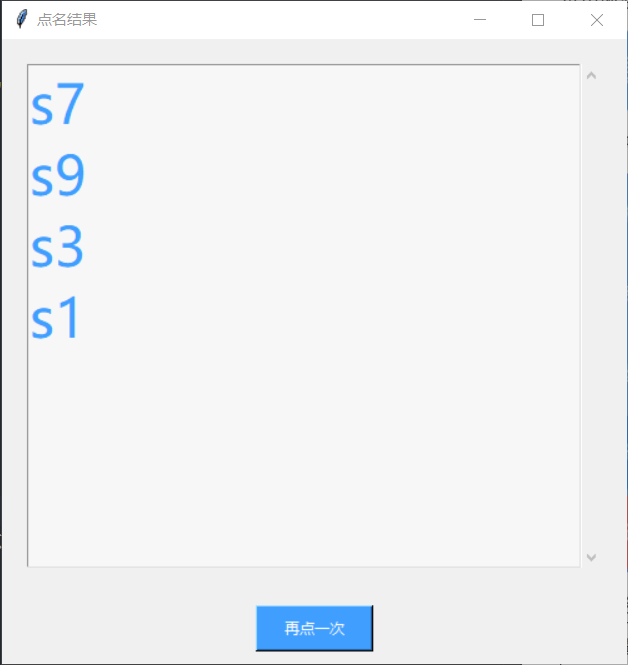
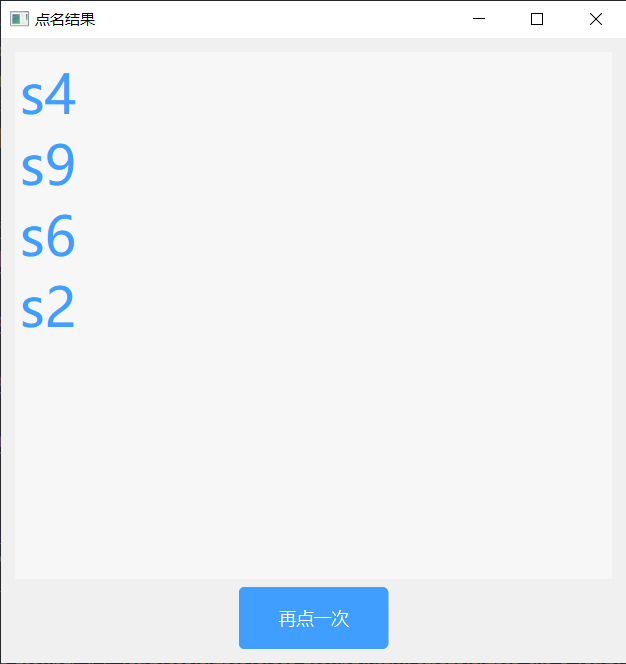
重构少量代码，修改README.md

diff --git a/tools/settings.py b/tools/settings.py
@@ -24,7 +24,7 @@ import subprocess
 import platform
 import copy
 from logger import logger
-from consts import DEFAULT_CONFIG
+from consts import DEFAULT_CONFIG, VERSION
 
 
 class Settings:
@@ -403,7 +403,7 @@ class Settings:
         info_frame.pack(pady=20, padx=20)
 
         # 版本信息
-        version_label = ttk.Label(info_frame, text="版本: 26.2.2", font=("Arial", 12))
+        version_label = ttk.Label(info_frame, text=f"版本: {VERSION}", font=("Arial", 12))
         version_label.pack(pady=10)
 
         # 作者信息（预留）

diff --git a/tools/consts.py b/tools/consts.py
@@ -23,3 +23,4 @@ DEFAULT_CONFIG = {
         "ask_exit": True,
         "show_welcome": True
 }
+VERSION = "1.0.0"

diff --git a/README.md b/README.md
@@ -16,7 +16,11 @@
 pip install -r requirements.txt
 ```
 
+### 打包
+- 双击`build.bat`进行打包，会在`dist`下生成打包文件
+
 ### 使用教程
+1. 源码环境
 - 双击`main.pyw`文件运行程序，会在屏幕右侧出现一个蓝色悬浮球，可以拖动，点击打开菜单，内置各种工具
 - 打开随机点名，设置点名个数，点击`点名`按钮，大屏展示名字
 - 倒计时默认1分钟，复位也是1分钟，加减按钮可调节；按下`开始`按钮后开始倒计时，倒计时结束后会有3声滴音提醒
@@ -29,6 +33,9 @@ tools.json
 }
 ```
 - 大部分错误都会弹窗提示，如果没有弹窗可以打开`log/running.log`查看运行日志
+
+2. 完成打包后（发行版）
+- 双击`class-toolkit.exe`即可运行，操作方式同上
 
 ### 注意事项
 1. **开机自启动和音量恢复仅支持Windows平台**
